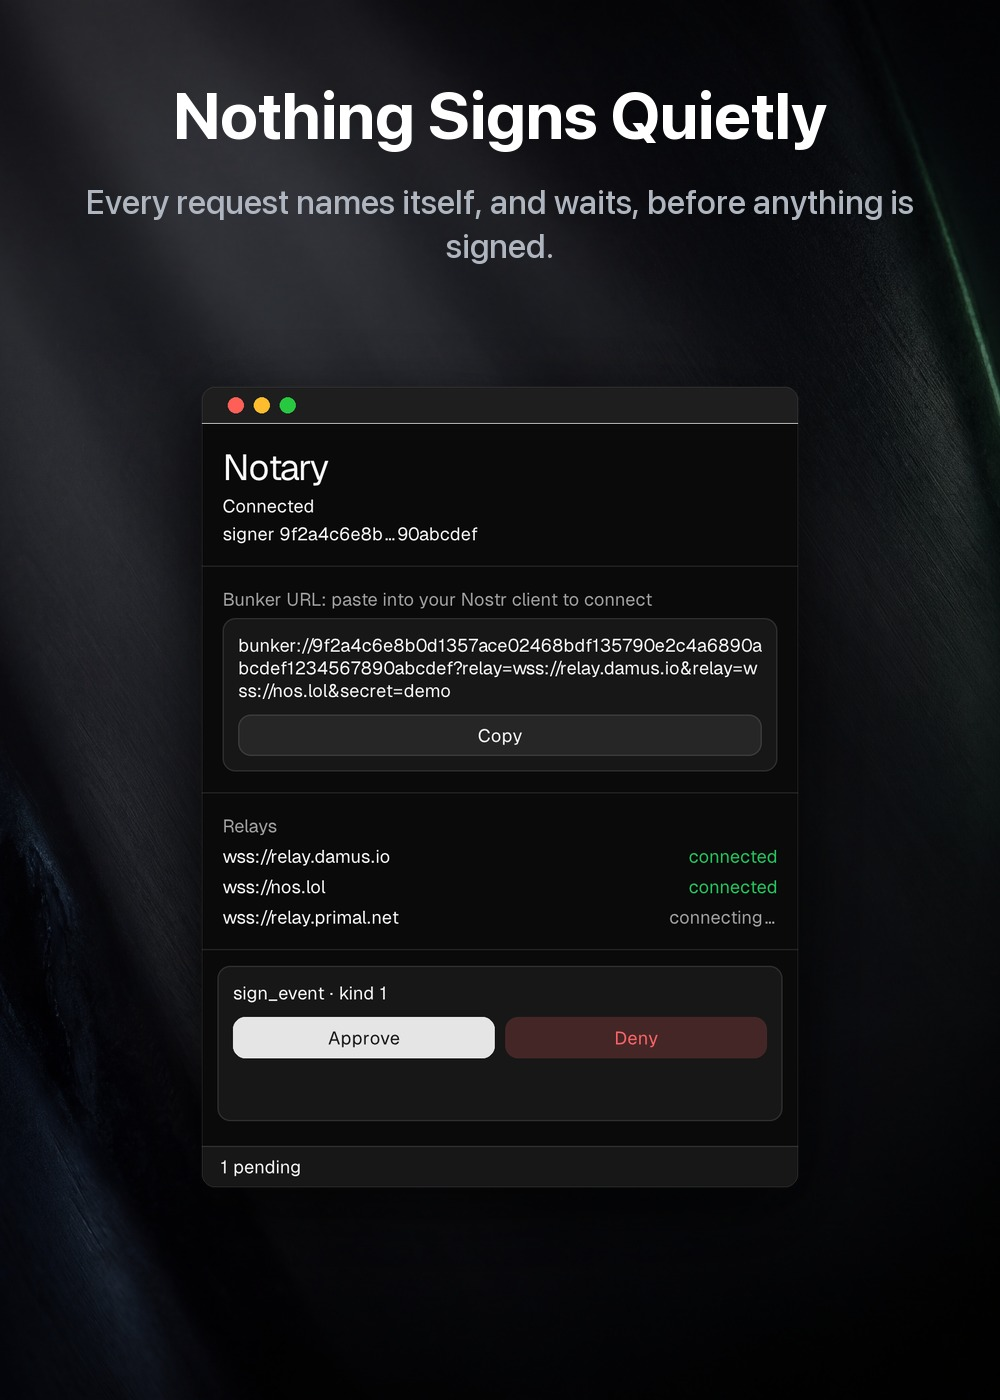
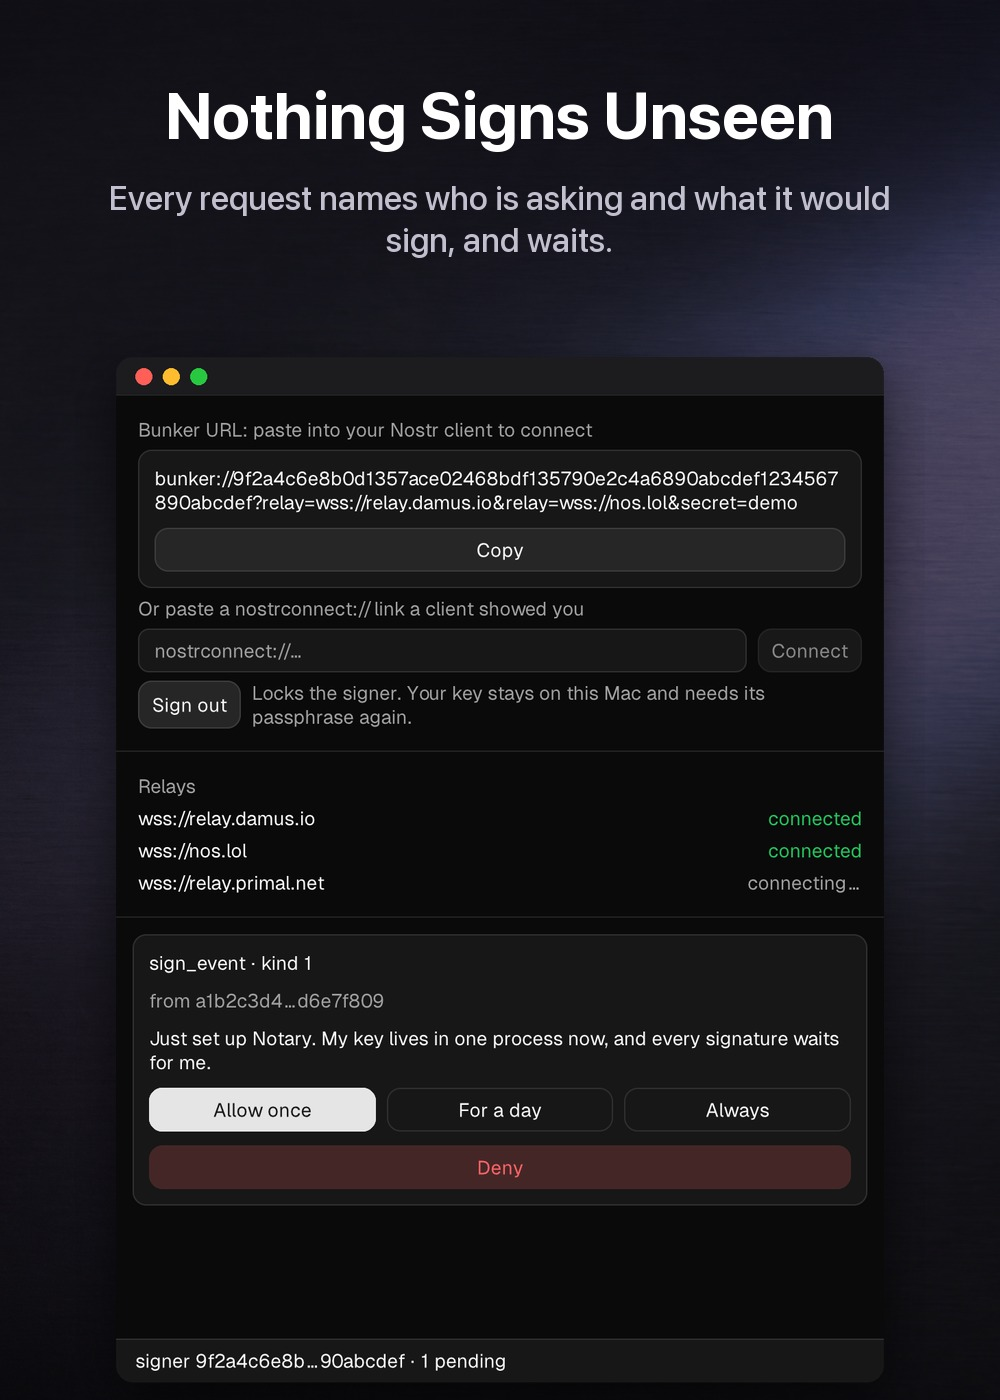
The window could not reach its own signer (#67)
Native SDK 0.9.1 began confining raw file effects to an app's own directories
unless the app declares the new `filesystem` permission. The window reads the
daemon's bearer token from $HOME, which is outside every one of them, so the
read was rejected and nothing said so: the token never arrived, the phase never
advanced, and the app sat on "Connecting to the signer…" forever. It looked
exactly like a network fault, which is where I spent a long time looking.

The released 0.8.0 was never affected. It was built against an older CLI and
the pin moved the day after, so the break lived only here. Nothing caught it
because `check`, `test` and `build` all pass on an app that cannot reach its
daemon, and none of them launches one. So the guard is a test that fails if the
permission is ever dropped again: cheap, and it runs where CI already looks.
A smoke test that launched the GUI would be the stronger check, but neither
this repo nor plaza launches one in CI today and the macOS runners cannot be
relied on for a Metal surface, so it would fail for the wrong reasons.

The permission belongs in the Zig list rather than in app.zon. The runtime
reads `options.security.permissions`, which is the array below; app.zon's
`.permissions` feeds the manifest and the mobile build options. I put it in the
manifest first and nothing changed, which is worth writing down.

The setup screen also overclaimed. It said the app "only sends the passphrase",
[…]

diff --git a/CHANGELOG.md b/CHANGELOG.md
@@ -7,6 +7,33 @@ While pre-1.0, minor versions add capability and patch versions are fixes.
 
 ## [Unreleased]
 
+## [0.8.1] - 2026-08-22
+
+### Fixed
+- **The window could not reach its own signer.** Native SDK 0.9.1 began
+  confining raw file effects to an app's own directories unless the app declares
+  the new `filesystem` permission. The window reads the daemon's bearer token
+  from `$HOME`, which is outside every one of them, so the read was rejected and
+  nothing said so: the token never arrived, the phase never advanced, and the
+  app sat on "Connecting to the signer…" forever, looking exactly like a network
+  fault. It is declared now.
+
+  The released 0.8.0 was never affected. It was built against an older CLI, and
+  the pin moved the day after that release, so the break lived only on `main`.
+  Nothing caught it because `check`, `test` and `build` all pass on an app that
+  cannot reach its daemon, and none of them launches it. There is now a test that
+  fails if the permission is ever dropped again.
+
+- **The setup screen overclaimed.** It said the app "only sends the passphrase".
+  That is true when you create a key and false when you import one, which is the
+  one moment the secret does pass through the window. It now says which is which.
+
+### Changed
+- The screenshots are retaken from the current app. The approval card shows the
+  four answers it actually offers (allow once, for a day, always, deny) along
+  with who is asking and what would be signed, where the old picture showed two
+  buttons and neither.
+
 ## [0.8.0] - 2026-08-16
 
 ### Added

diff --git a/README.md b/README.md
@@ -25,7 +25,7 @@ client, and Notary neither knows nor cares which one is asking.
 
 | | | |
 | --- | --- | --- |
-| ![Your key is created and held by the signer: this window forwards a passphrase, or the nsec you choose to import](docs/shots/panel-setup.jpg) | ![One URL, any client: paste the bunker link into any Nostr app and you are connected](docs/shots/panel-serving.jpg) | ![Nothing signs quietly: a request names itself and waits, and you say how long your answer stands](docs/shots/panel-request.jpg) |
+| ![Your key is created and held by the signer: this window forwards a passphrase, or the nsec you choose to import](docs/shots/panel-setup.jpg) | ![One URL, any client: paste the bunker link into any Nostr app and you are connected](docs/shots/panel-serving.jpg) | ![Nothing signs unseen: a request names who is asking and what it would sign, and waits for allow once, for a day, always, or deny](docs/shots/panel-request.jpg) |
 
 <sub>Real windows, photographed from the running app. Every pixel inside the
 window is the app's own, so nothing here shows a screen the app cannot draw. The
